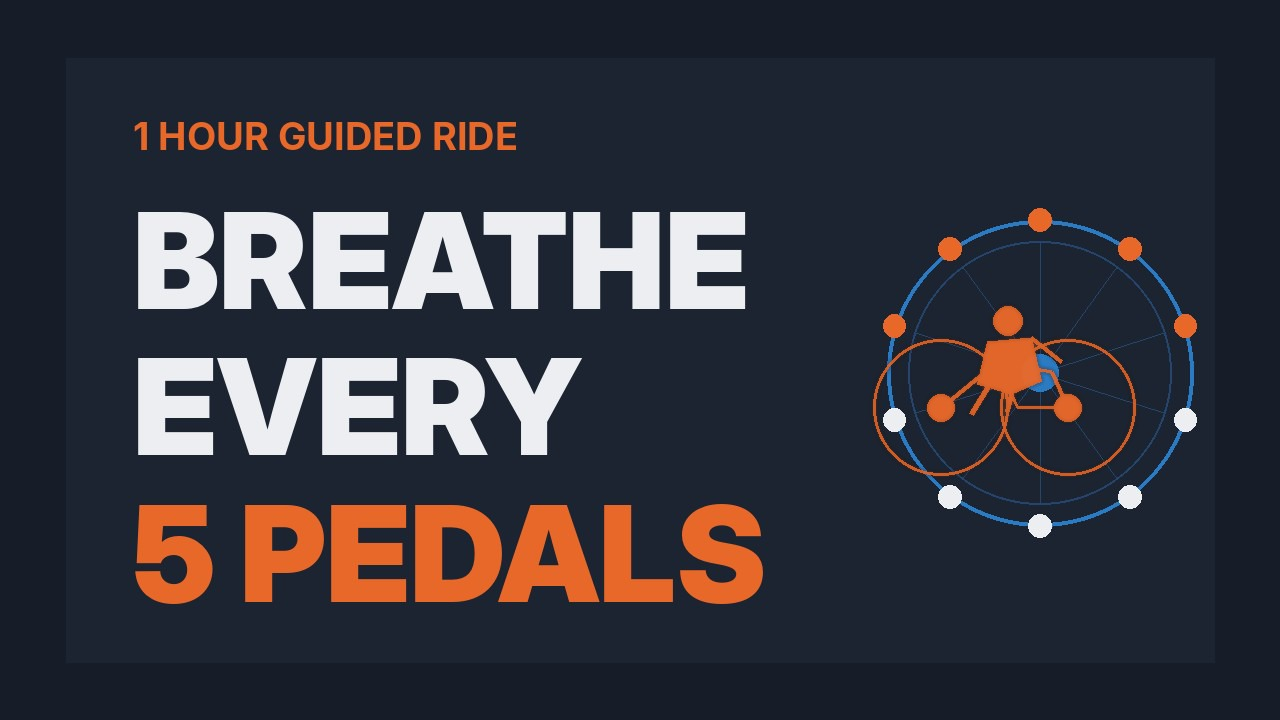
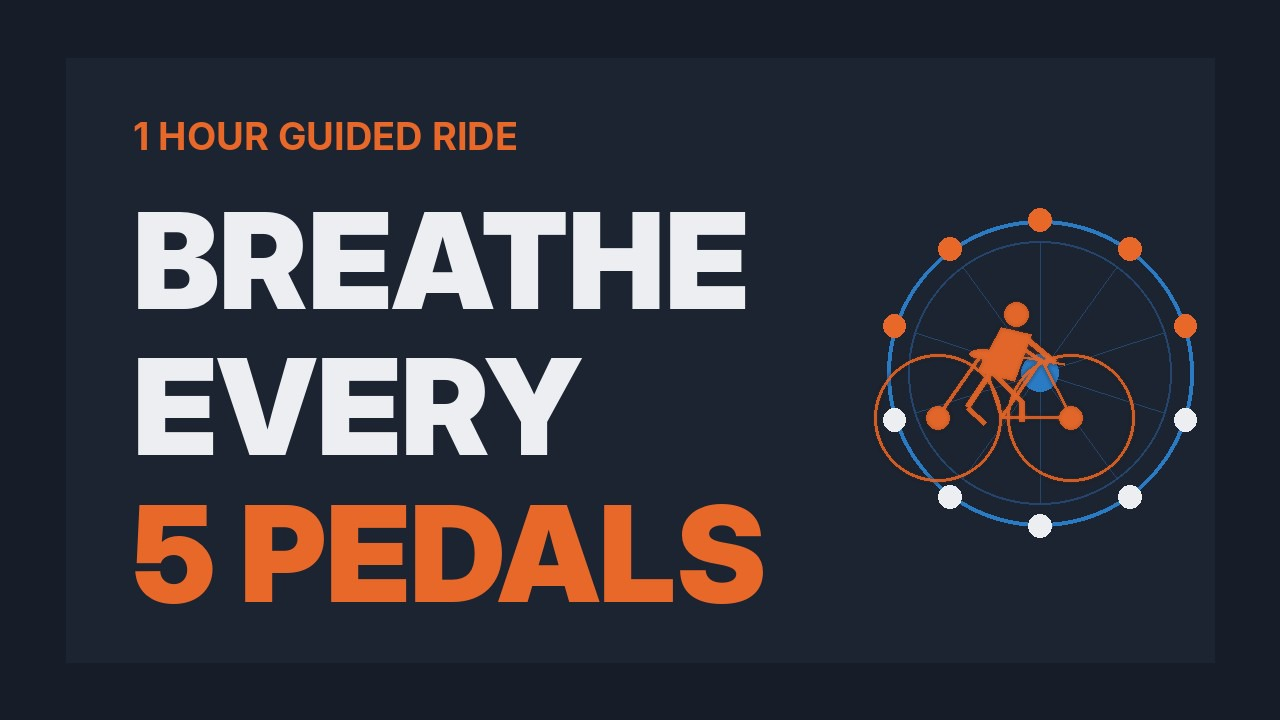
Ship bikeIQ with UI-matched RaSun TTS and a side-view cyclist.
Match rasun voice settings to s50/sim75, redraw the rider without touching the dial, and point the package at the new private listen draft.

Changed region(s): [[0.6875, 0.3972, 0.9062, 0.6722], [0.6562, 0.55, 0.6875, 0.5806]]

diff --git a/scripts/add-iq-athlete-silhouette.py b/scripts/add-iq-athlete-silhouette.py
@@ -46,29 +46,51 @@ def _poly(draw: ImageDraw.ImageDraw, pts, fill):
 
 
 def draw_cyclist(d: ImageDraw.ImageDraw, box, fill, s: float) -> None:
+    """Side-view road bike + rider silhouette (profile facing right)."""
     x0, y0, x1, y1 = box
     cx = (x0 + x1) / 2
-    cy = (y0 + y1) / 2 + 40 * s
-    r = min(x1 - x0, y1 - y0) * 0.16
-    # wheels
-    for wx in (cx - 95 * s, cx + 95 * s):
-        d.ellipse([wx - r, cy - r, wx + r, cy + r], outline=fill, width=max(3, int(5 * s)))
-        d.ellipse([wx - r * 0.2, cy - r * 0.2, wx + r * 0.2, cy + r * 0.2], fill=fill)
-    # frame
-    d.line([(cx - 95 * s, cy), (cx - 10 * s, cy - 70 * s), (cx + 70 * s, cy - 55 * s), (cx + 95 * s, cy)], fill=fill, width=max(3, int(6 * s)))
-    d.line([(cx - 10 * s, cy - 70 * s), (cx + 20 * s, cy), (cx + 95 * s, cy)], fill=fill, width=max(3, int(5 * s)))
-    # rider
-    head = (cx + 5 * s, cy - 130 * s)
-    hr = 22 * s
+    cy = (y0 + y1) / 2 + 55 * s
+    r = min(x1 - x0, y1 - y0) * 0.15
+    lw = max(3, int(5 * s))
+    thick = max(4, int(9 * s))
+
+    rear = (cx - 100 * s, cy)
+    front = (cx + 100 * s, cy)
+    for wx, wy in (rear, front):
+        d.ellipse([wx - r, wy - r, wx + r, wy + r], outline=fill, width=lw)
+        hub = r * 0.18
+        d.ellipse([wx - hub, wy - hub, wx + hub, wy + hub], fill=fill)
+
+    bb = (cx - 5 * s, cy)
+    saddle = (cx - 35 * s, cy - 95 * s)
+    stem = (cx + 55 * s, cy - 88 * s)
+    d.line([rear, saddle], fill=fill, width=lw)
+    d.line([saddle, bb], fill=fill, width=lw)
+    d.line([bb, stem], fill=fill, width=lw)
+    d.line([saddle, stem], fill=fill, width=lw)
+    d.line([bb, front], fill=fill, width=lw)
+    d.line([stem, front], fill=fill, width=lw)
+    d.line([(stem[0] - 8 * s, stem[1]), (stem[0] + 35 * s, stem[1] + 8 * s)], fill=fill, width=lw)
+    d.ellipse([saddle[0] - 18 * s, saddle[1] - 8 * s, saddle[0] + 22 * s, saddle[1] + 6 * s], fill=fill)
+
+    head = (cx + 18 * s, cy - 155 * s)
+    hr = 18 * s
     d.ellipse([head[0] - hr, head[1] - hr, head[0] + hr, head[1] + hr], fill=fill)
-    _poly(d, [
-        (cx - 25 * s, cy - 100 * s), (cx + 40 * s, cy - 105 * s),
-        (cx + 55 * s, cy - 40 * s), (cx + 10 * s, cy - 20 * s),
-        (cx - 40 * s, cy - 35 * s),
-    ], fill)
-    d.line([(cx + 10 * s, cy - 20 * s), (cx + 5 * s, cy + 5 * s)], fill=fill, width=max(4, int(8 * s)))  # leg
-    d.line([(cx - 20 * s, cy - 40 * s), (cx - 50 * s, cy + 10 * s)], fill=fill, width=max(4, int(8 * s)))
-    d.line([(cx + 40 * s, cy - 105 * s), (cx + 85 * s, cy - 70 * s)], fill=fill, width=max(3, int(6 * s)))  # arms to bars
+    _poly(
+        d,
+        [
+            (cx - 5 * s, cy - 135 * s),
+            (cx + 40 * s, cy - 125 * s),
+            (cx + 15 * s, cy - 55 * s),
+            (cx - 40 * s, cy - 70 * s),
+        ],
+        fill,
+    )
+    d.line([(cx + 30 * s, cy - 120 * s), (stem[0] + 20 * s, stem[1] + 5 * s)], fill=fill, width=thick)
+    d.line([(cx + 20 * s, cy - 110 * s), (stem[0] + 10 * s, stem[1] + 8 * s)], fill=fill, width=max(3, int(7 * s)))
+    hip = (cx - 20 * s, cy - 70 * s)
+    d.line([hip, (cx - 55 * s, cy - 15 * s), (bb[0] - 25 * s, cy + 8 * s)], fill=fill, width=thick)
+    d.line([hip, (cx + 25 * s, cy - 25 * s), (bb[0] + 30 * s, cy + 5 * s)], fill=fill, width=thick)
 
 
 def draw_hiker(d: ImageDraw.ImageDraw, box, fill, s: float) -> None:
@@ -217,6 +239,9 @@ def process_slug(slug: str) -> int:
         bak = path.with_suffix(path.suffix + ".pre-silhouette")
         if not bak.exists():
             bak.write_bytes(path.read_bytes())
+        else:
+            # Always re-composite from the clean dial (never stack silhouettes).
+            path.write_bytes(bak.read_bytes())
         composite(path, athlete, accent)
     print(f"{slug}: {athlete}")
     return 0

diff --git a/scripts/make-bikeiq-card.py b/scripts/make-bikeiq-card.py
@@ -3,9 +3,26 @@
 Usage: python3 scripts/make-bikeiq-card.py video-packages/rasun/bikeiq-breathe-every-5-pedals
 Needs Pillow and the Inter fonts (paths below)."""
 import math, sys
+from pathlib import Path
 from PIL import Image, ImageDraw, ImageFont
-F="/usr/share/fonts/opentype/inter/"
-def font(n,s): return ImageFont.truetype(F+n,s)
+_FONT_DIRS = [
+    Path("/usr/share/fonts/opentype/inter"),
+    Path("/Library/Fonts"),
+    Path("/System/Library/Fonts"),
+    Path("/System/Library/Fonts/Supplemental"),
+]
+_FONT_FALLBACKS = {
+    "Inter-Bold.otf": ["Inter-Bold.otf", "Arial Bold.ttf", "Helvetica.ttc", "Arial.ttf"],
+    "InterDisplay-Black.otf": ["InterDisplay-Black.otf", "Arial Black.ttf", "Helvetica.ttc", "Arial.ttf"],
+    "Inter-Medium.otf": ["Inter-Medium.otf", "Arial.ttf", "Helvetica.ttc"],
+}
+def font(n, s):
+    for base in _FONT_DIRS:
+        for cand in _FONT_FALLBACKS.get(n, [n]):
+            p = base / cand
+            if p.exists():
+                return ImageFont.truetype(str(p), s)
+    return ImageFont.load_default()
 BG=(22,28,40); PANEL=(28,35,49); ORANGE=(232,104,42); BLUE=(43,123,196); WHITE=(236,238,242); GREY=(160,168,182)
 
 def wheel(d, cx, cy, r, scale):

diff --git a/scripts/voice-generate.py b/scripts/voice-generate.py
@@ -88,12 +88,11 @@ def _resolve_voice_id(preset: str | None, out_path: str, voice_id_arg: str | Non
 
 
 def _voice_settings(preset: str | None) -> dict:
-    # Ra / IQ sessions: short-snip friendly (higher stability, no style exaggeration).
+    # RaSun IQ: match ElevenLabs UI export (s50 / sim75); no Chess style exaggeration.
     if preset == "rasun":
         return {
-            "stability": 0.55,
-            "similarity_boost": 0.8,
-            "style": 0.0,
+            "stability": 0.5,
+            "similarity_boost": 0.75,
         }
     return {
         "stability": 0.5,

diff --git a/workflows/agent-handoffs/CCO-2026-11-rasun-iq-sessions.md b/workflows/agent-handoffs/CCO-2026-11-rasun-iq-sessions.md
@@ -3,7 +3,7 @@
 
 **Purpose:** Hand this work to Cursor (or any agent) so it can finish the build and ship without re-deriving anything.
 **Owner:** Rashad West (Sportstechwest)
-**Last updated:** 2026-11-20 (new RaSun voice `uERtS79IUtxplcyW7IEG`; bikeIQ wiped/rebuilt; private draft `e4PHspR9TPA`)
+**Last updated:** 2026-11-20 (bikeIQ right way: s50/sim75 TTS, side-view cyclist, private `fcwyc6akpX0`)
 **Repo:** `rashadwest/Sportstechwest`
 **Branch:** `claude/keen-volta-y1ux2u` (pushed, **not merged**, no PR yet)
 
@@ -39,7 +39,7 @@ Then open this file at `workflows/agent-handoffs/CCO-2026-11-rasun-iq-sessions.m
 | File | What it is |
 |---|---|
 | `scripts/rasun-video.py` | The module: `new`, `schedule`, `approve`, `build`, `status`. `iq-session` builder lives here (`build_session`). |
-| `scripts/voice-generate.py` | ElevenLabs TTS. `--preset rasun` → RaSun `uERtS79IUtxplcyW7IEG` via `ELEVENLABS_VOICE_ID_RASUN`; short-snip settings 0.55 / 0.8 / 0.0; content-addressed segment cache. Prior Ra `XZrs…` / SunRa `Rzqjd…` attempts parked. |
+| `scripts/voice-generate.py` | ElevenLabs TTS. `--preset rasun` → RaSun `uERtS79IUtxplcyW7IEG`; UI-matched **s50/sim75** (0.5 / 0.75); content-addressed segment cache. |
 | `scripts/stw-iq-dispatcher.py` | Scheduler. Generic `queue_upload` action with `build_if_missing`, `thumbnail_template`, `record_video_id_in`, and a run lock. |
 | `scripts/youtube-upload.py` | Uploader (thumbnail MIME type now set from the file). |
 | `scripts/make-iq-card.py` | Draws `visual.png` + `thumbnail.jpg` from the `card` block in `package.json` (6 themes, 6 motifs). |
@@ -131,7 +131,7 @@ Caveat: verified from abstracts and indexes, not full texts. Claims are kept gen
 |---|---|---|
 | Builder, scaling to 60:00, dispatcher, lock, ID write-back | Pass | Section 4 tests. |
 | **Code reaches the machine** | **BLOCKER** | The Mac runs a local checkout with no pull. Merge to `main` and pull, or tomorrow's bikeIQ never runs. |
-| **RaSun voice ID on the Mac** | Pass (2026-11-19) | Ra `XZrsM88QEbRreJGsS4Xf` on `ELEVENLABS_VOICE_ID` + `ELEVENLABS_VOICE_ID_RASUN`. SunRa retired in code. |
+| **RaSun voice ID on the Mac** | Pass (2026-11-20) | RaSun `uERtS79IUtxplcyW7IEG` on `ELEVENLABS_VOICE_ID` + `ELEVENLABS_VOICE_ID_RASUN`. Prior Ra `XZrsM88QEbRreJGsS4Xf` and SunRa retired. |
 | **Music license** | **BLOCKER** | Unknown source. A claimed track on 7 hour-long uploads means Content ID claims or blocks. |
 | AI disclosure | High | RaSun is a synthetic, realistic voice. Set `containsSyntheticMedia` on upload (task C2). |
 | Build at upload time | High | Each session voices about 50 segments plus an hour-long encode at 11:17. Prebuild nightly (task C4). |
@@ -154,7 +154,7 @@ Caveat: verified from abstracts and indexes, not full texts. Claims are kept gen
 ## 7. Decisions already made (do not reopen)
 
 - **Format:** walkingIQ/mentalIQ structure, 1 hour, 5 s after every segment, music at 35%, still card.
-- **Voice:** **RaSun** ElevenLabs ID `uERtS79IUtxplcyW7IEG` (locked on `ELEVENLABS_VOICE_ID` and `ELEVENLABS_VOICE_ID_RASUN` as of 2026-11-20). Prior Ra `XZrsM88QEbRreJGsS4Xf` and deleted SunRa `RzqjdNWFyMhEwNbRm3ek` attempts parked — do not delete a working voice without A/B proof. Short-snip path: TTS 0.55 / 0.8 / 0.0; content-hash cue reuse; bikeIQ-only rebuild + private draft `e4PHspR9TPA`. Other six IQ sessions still on older local builds until bikeIQ is approved. Card credit **Voice: Rashad West**. Close: "Sportstechwest. I'm RaSun."
+- **Voice:** **RaSun** `uERtS79IUtxplcyW7IEG` with TTS **stability 0.5 / similarity 0.75** (match ElevenLabs UI export). Short-snip script + hash cue reuse. bikeIQ right-way private draft `fcwyc6akpX0` (side-view cyclist; dial unchanged). Prior attempts parked. Other six IQs wait on bikeIQ approval. Card credit **Voice: Rashad West**. Close: "Sportstechwest. I'm RaSun."
 - **Lane:** RaSun queue (`_data/rasun_queue.csv`), job `rasun-every-other-day`, **private** Studio drafts until Rashad sets Public (changed from public 2026-11-19).
 - **Upload time:** **06:07** local (changed from 11:17 2026-11-19).
 - **Calendar:** Fri Nov 20 bikeIQ, then Sat/Tue/Thu from Nov 21 to Dec 3, as in section 3. Week 2 = second takes on the same three ideas, with new art.
@@ -173,10 +173,10 @@ Caveat: verified from abstracts and indexes, not full texts. Claims are kept gen
 ## 8. Cursor build tasks (in order)
 
 ### C1. Ship to the machine (blocker, before Nov 20 06:07 local time)
-**Status (2026-11-19): MOSTLY DONE on this Mac.** `.env` has Ra `XZrsM88QEbRreJGsS4Xf` on both voice IDs. All seven IQ sessions force-rebuilt with Ra + Chess booth settings (`output/video/rasun-*.mp4`, ~3600 s each). bikeIQ smoke: `output/audio/rasun-bikeiq-listen-2min.mp3` (~120 s) played OK. Still open: merge PR #5 to `main` (or keep running from `claude/keen-volta-y1ux2u` checkout — dispatcher does not git pull).
+**Status (2026-11-20): MOSTLY DONE on this Mac.** `.env` has RaSun `uERtS79IUtxplcyW7IEG` on both voice IDs (longer-trained; switched 2026-11-20). Prior local builds may still be on older Ra audio until force-rebuild. Still open: merge PR #5 to `main` (or keep running from `claude/keen-volta-y1ux2u` checkout — dispatcher does not git pull).
 1. Open a PR `claude/keen-volta-y1ux2u` into `main`. Wait for CI (`blog-validate.yml`, `site-health.yml`, `jekyll.yml`) and merge (Rashad merges).
 2. On the Mac: `cd /Users/rashadwest/Sportstechwest && git checkout main && git pull` (or stay on the feature branch if that is what launchd/n8n runs).
-3. Confirm `.env`: `ELEVENLABS_VOICE_ID_RASUN=XZrsM88QEbRreJGsS4Xf` (Ra; not SunRa).
+3. Confirm `.env`: `ELEVENLABS_VOICE_ID_RASUN=uERtS79IUtxplcyW7IEG` (RaSun longer-trained; not prior Ra/SunRa).
 4. Prebuild / force-rebuild if cache is stale:
    ```bash
    python3 scripts/rasun-video.py build --force --slug bikeiq-breathe-every-5-pedals
